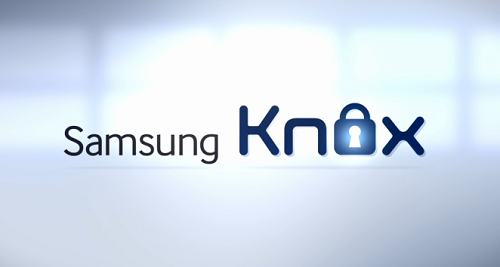
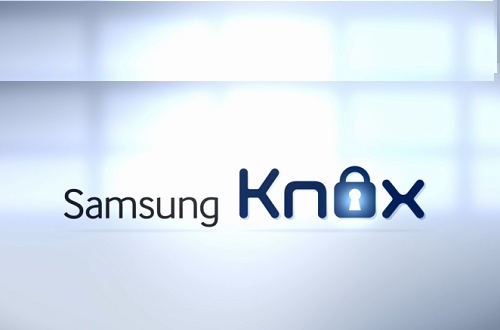
이미지 크기 재조정

diff --git a/index.html b/index.html
@@ -75,6 +75,7 @@
 
     <section id="home" class="hero">
         <div class="hero-content">
+            <h1 class="glitch" data-text="박대균">박대균</h1>
             <h1 class="glitch" data-text="Big Virus">Big Virus</h1>
             <p class="subtitle">웹 시스템 개발자 & 데이터 아키텍트</p>
         </div>
@@ -186,7 +187,7 @@
                 </div>
             </div>
             <div class="about-content">
-                <h3>Skill Stack</h3>
+                <h3>주로 JAVA 기반 웹 시스템 구축 프로젝트에 경험이 많으며 관련된 기술 스택 지식을 보유하고 있습니다.</h3>
 
                 <div class="about-stats">
                     <div class="stat-card">
@@ -223,7 +224,8 @@
                 </div>
             </div>
             <div class="about-content">
-                <h3>디지털 경험을 인증하다</h3>
+                <h3>데이터베이스 성능 최적화와 아키텍처 설계 분야에 관심이 많아 관련 분야 자격증 취득 및 역량강화에 노력하고 있습니다.</h3>
+                <h3></h3>
 
                 <div class="about-stats">
                     <div class="stat-card">
@@ -286,15 +288,13 @@
                     함께 멋진 것을 만들어봅시다
                 </p>
                 <div class="social-links">
-                    <a href="#" aria-label="GitHub">GitHub</a>
-                    <a href="#" aria-label="LinkedIn">LinkedIn</a>
-                    <a href="#" aria-label="Twitter">Twitter</a>
+                    <a href="https://github.com/PARKDAEGYUN/parkdaegyun.github.io" aria-label="GitHub">GitHub</a>
                 </div>
             </div>
         </div>
         
         <div class="footer-bottom">
-            <p>&copy; 2048 뉴럴 네트워크 포트폴리오. 모든 권리 보유. 제공: <a href="https://www.tooplate.com" rel="nofollow noopener">Tooplate</a></p>
+           <!-- <p>&copy; 2048 뉴럴 네트워크 포트폴리오. 모든 권리 보유. 제공: <a href="https://www.tooplate.com" rel="nofollow noopener">Tooplate</a></p>-->
         </div>
     </footer>
 <script src="tooplate-neural-scripts.js"></script>

diff --git a/tooplate-neural-style.css b/tooplate-neural-style.css
@@ -668,7 +668,7 @@ https://www.tooplate.com/view/2139-neural-portfolio
             overflow: hidden;
             cursor: pointer;
             width: 600px;
-            height: 320px;
+            height: 270px;
             background-size: 100%;
             background-image: url("img/knox2.jpg");
         }
